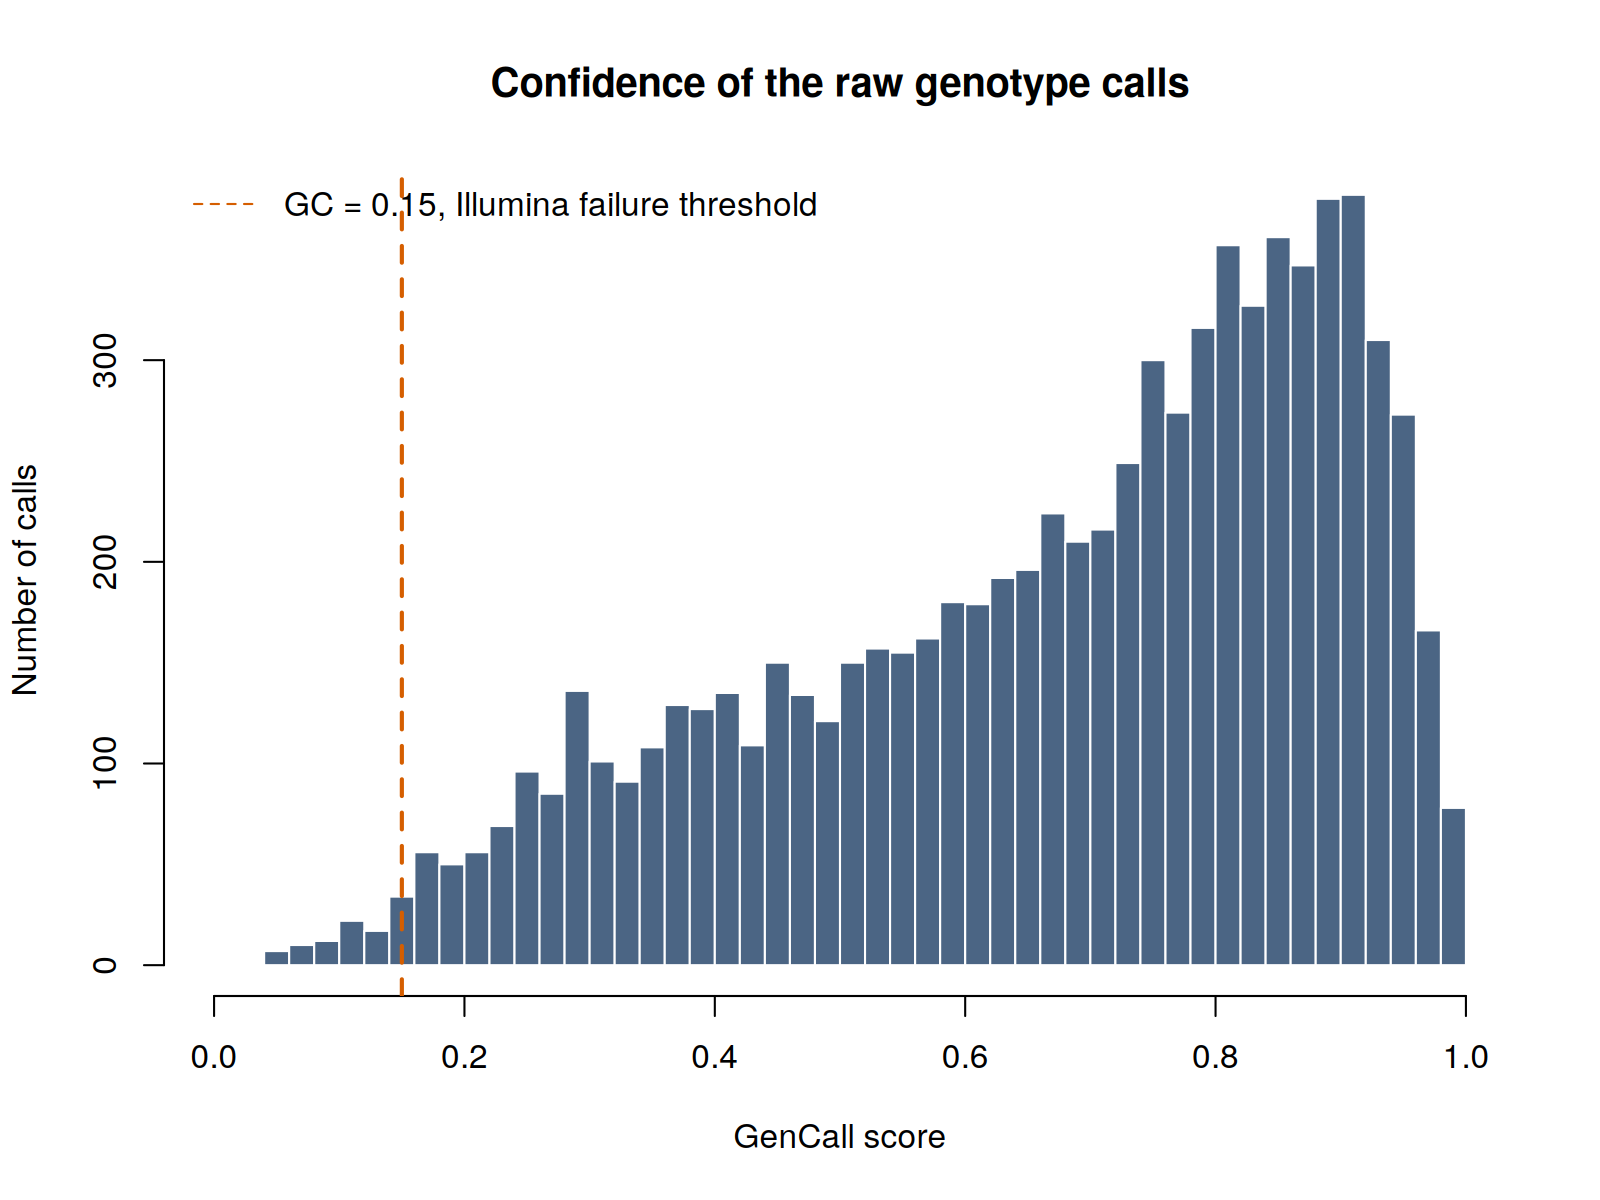
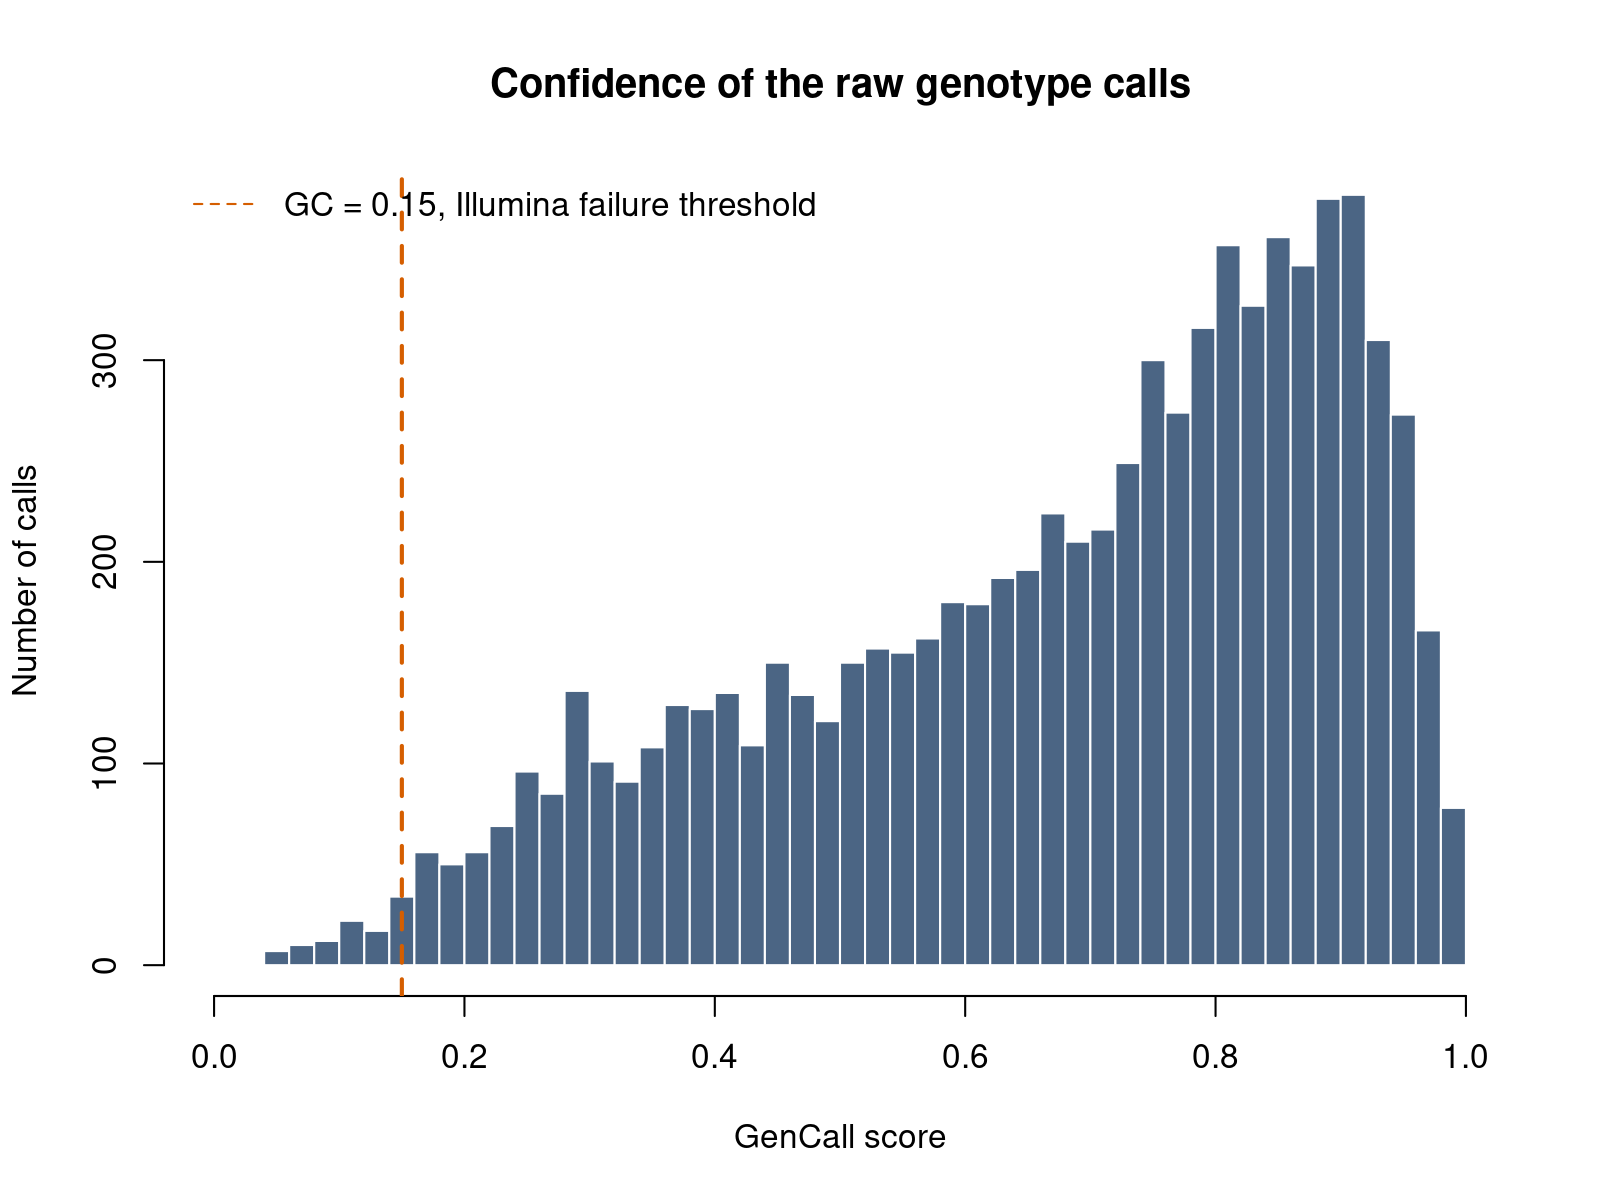
Canonical run of 22 November 2026, 41 steps: Section 1A included
bash scripts/dev/run_all.sh v0.3-data at 06ec493, all 41 steps ok,
finished 2026-11-22T18:00:41Z.

Section 1A, now part of the run: step 00 regenerated the example data
byte-identical to the committed files (no change); the text results differ
from fa99b5b only in timestamps and in the recorded input paths, which are
now relative to the project instead of /home/claude/gwas/...; the GenCall
plot is re-rendered here. New: pdac_demo_01A_reference_summary.tsv,
pdac_demo_01A_allele_repair.tsv, pdac_demo_01A_demo_chr22_format_sizes.tsv,
read by the page. Every other results file differs from 044bd27 only in
its generation timestamp. check_pending_rerun.sh passes on all 8 pages.

Claude-Session: https://claude.ai/code/session_01T6NktpCFfTj7qocEvzuN6R

diff --git a/env/software_versions.md b/env/software_versions.md
@@ -5,8 +5,8 @@ produced the published results; do not edit by hand.
 
 | Item | Value |
 |---|---|
-| Run started | 2026-11-22T17:04:00Z |
-| Commit | `c92ee86421066d2dcf80edb86b522ec022add8b8` |
+| Run started | 2026-11-22T17:50:05Z |
+| Commit | `06ec493b8c7d8a93990e53d8d97d7ea823f17440` |
 | Data release | `v0.3-data` |
 | Operating system | Ubuntu 20.04.4 LTS |
 | PLINK 2 | PLINK v2.0.0-a.7LM AVX2 Intel (7 Jul 2025) |
